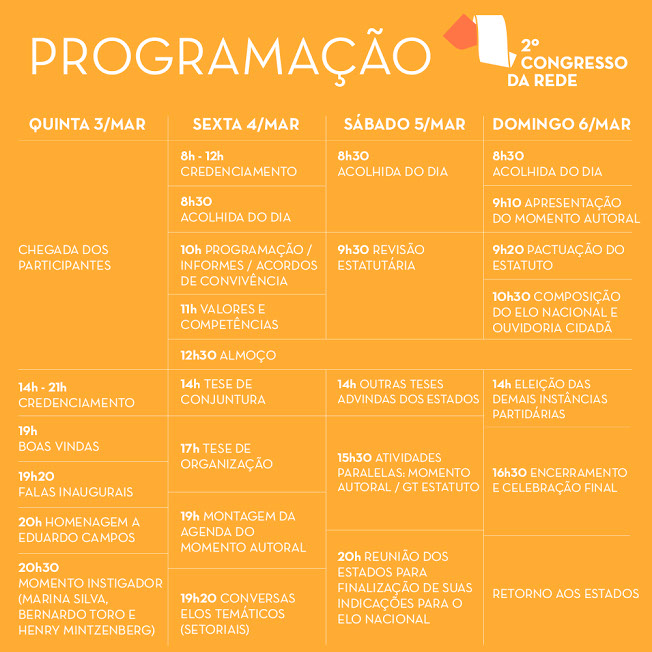
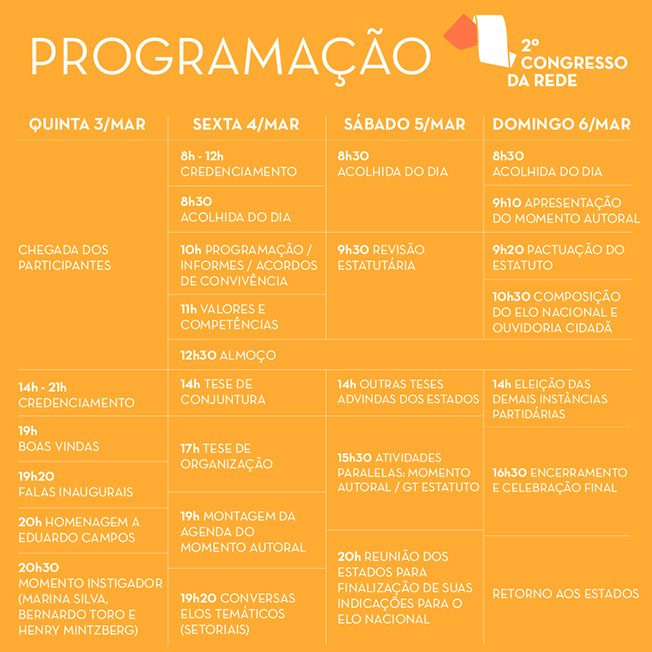
corrigir erro programação

diff --git a/_site/css/index.css b/_site/css/index.css
@@ -1,7 +1,7 @@
 .version.index /* version checker */
 {
-	color: #0000E9;
-	background-color: #409DD2;
+	color: #000004;
+	background-color: #171047;
 }
 
 #page
@@ -2283,7 +2283,7 @@
 
 #u64804
 {
-	z-index: 484;
+	z-index: 482;
 	height: 41px;
 	background-color: #F7931E;
 }
@@ -2298,7 +2298,7 @@
 
 #u64804-bw
 {
-	z-index: 484;
+	z-index: 482;
 	position: fixed;
 	left: 0px;
 	right: 0px;
@@ -2307,20 +2307,20 @@
 
 #u64801
 {
-	z-index: 450;
+	z-index: 448;
 	height: 41px;
 	background-color: #FEAB32;
 }
 
 #u64801-bw
 {
-	z-index: 450;
+	z-index: 448;
 	height: 41px;
 }
 
 #menuu64805
 {
-	z-index: 485;
+	z-index: 483;
 	width: 904px;
 	border-width: 0px;
 	border-color: transparent;
@@ -2804,7 +2804,7 @@
 
 #u34919
 {
-	z-index: 540;
+	z-index: 538;
 	height: 50px;
 	border-width: 0px;
 	background-color: #3B8584;
@@ -2812,7 +2812,7 @@
 
 #u34919-bw
 {
-	z-index: 540;
+	z-index: 538;
 	position: fixed;
 	left: 0px;
 	right: 0px;
@@ -2821,7 +2821,7 @@
 
 #u34920
 {
-	z-index: 541;
+	z-index: 539;
 	width: 300px;
 	position: fixed;
 	top: 341px;
@@ -3064,7 +3064,7 @@
 
 #u35004
 {
-	z-index: 451;
+	z-index: 449;
 	width: 279px;
 	background-color: #F2F2F2;
 	position: relative;
@@ -3076,13 +3076,13 @@
 
 #u70227-4
 {
-	z-index: 462;
+	z-index: 460;
 	position: relative;
 }
 
 #u70234-4
 {
-	z-index: 470;
+	z-index: 468;
 	margin-left: 11px;
 	margin-top: 43px;
 	position: relative;
@@ -3090,7 +3090,7 @@
 
 #u38101
 {
-	z-index: 452;
+	z-index: 450;
 	width: 279px;
 	background-color: #F2F2F2;
 	position: relative;
@@ -3102,14 +3102,14 @@
 
 #u38102-4
 {
-	z-index: 453;
+	z-index: 451;
 	left: -1px;
 	position: relative;
 }
 
 #u38103-4
 {
-	z-index: 457;
+	z-index: 455;
 	margin-left: 7px;
 	margin-top: 22px;
 	position: relative;
@@ -3117,7 +3117,7 @@
 
 #u70226
 {
-	z-index: 461;
+	z-index: 459;
 	width: 281px;
 	background-color: #F2F2F2;
 	position: relative;
@@ -3129,14 +3129,14 @@
 
 #u70294-4
 {
-	z-index: 476;
+	z-index: 474;
 	left: -1px;
 	position: relative;
 }
 
 #u70228-4
 {
-	z-index: 466;
+	z-index: 464;
 	margin-left: 22px;
 	margin-top: 43px;
 	position: relative;
@@ -3144,7 +3144,7 @@
 
 #u70287
 {
-	z-index: 474;
+	z-index: 472;
 	width: 322px;
 	background-color: transparent;
 	position: relative;
@@ -3155,7 +3155,7 @@
 
 #u70307
 {
-	z-index: 480;
+	z-index: 478;
 	width: 322px;
 	background-color: transparent;
 	position: relative;
@@ -3166,7 +3166,7 @@
 
 #u70315
 {
-	z-index: 482;
+	z-index: 480;
 	width: 322px;
 	background-color: transparent;
 	position: relative;
@@ -3197,14 +3197,14 @@
 	margin-top: 562px;
 }
 
-#u44668
+#u75633
 {
-	z-index: 446;
+	z-index: 541;
 	width: 652px;
 	background-color: transparent;
 	position: relative;
 	margin-right: -10000px;
-	left: 299px;
+	left: 254px;
 }
 
 #u38094-bw
@@ -3318,7 +3318,7 @@
 
 #u48313
 {
-	z-index: 448;
+	z-index: 446;
 	width: 20px;
 	background-color: transparent;
 	position: relative;

diff --git a/_site/index.html b/_site/index.html
@@ -12,7 +12,7 @@
   <title>Segundo Congresso da Rede</title>
   <!-- CSS -->
   <link rel="stylesheet" type="text/css" href="css/site_global.css?131700929"/>
-  <link rel="stylesheet" type="text/css" href="css/index.css?3913326034" id="pagesheet"/>
+  <link rel="stylesheet" type="text/css" href="css/index.css?68620359" id="pagesheet"/>
   <!-- Other scripts -->
   <script type="text/javascript">
    document.documentElement.className = document.documentElement.className.replace(/\bnojs\b/g, 'js');
@@ -1224,9 +1224,9 @@
       <div id="u38094"><!-- group -->
        <div class="clearfix" id="u38094_align_to_page">
         <a class="anchor_item grpelem" id="conv"></a>
-        <!-- m_editable region-id="editable-static-tag-U44668-BP_infinity" template="index.html" data-type="image" -->
-        <div class="clip_frame grpelem" id="u44668" data-muse-uid="U44668" data-muse-type="img_frame"><!-- image -->
-         <img class="block" id="u44668_img" src="images/programacao.jpg" alt="" width="652" height="652" data-muse-src="images/programacao.jpg"/>
+        <!-- m_editable region-id="editable-static-tag-U75633-BP_infinity" template="index.html" data-type="image" -->
+        <div class="clip_frame grpelem" id="u75633" data-muse-uid="U75633" data-muse-type="img_frame"><!-- image -->
+         <img class="block" id="u75633_img" src="images/programacao.jpg" alt="" width="652" height="652" data-muse-src="images/programacao.jpg"/>
         </div>
         <!-- /m_editable -->
        </div>
